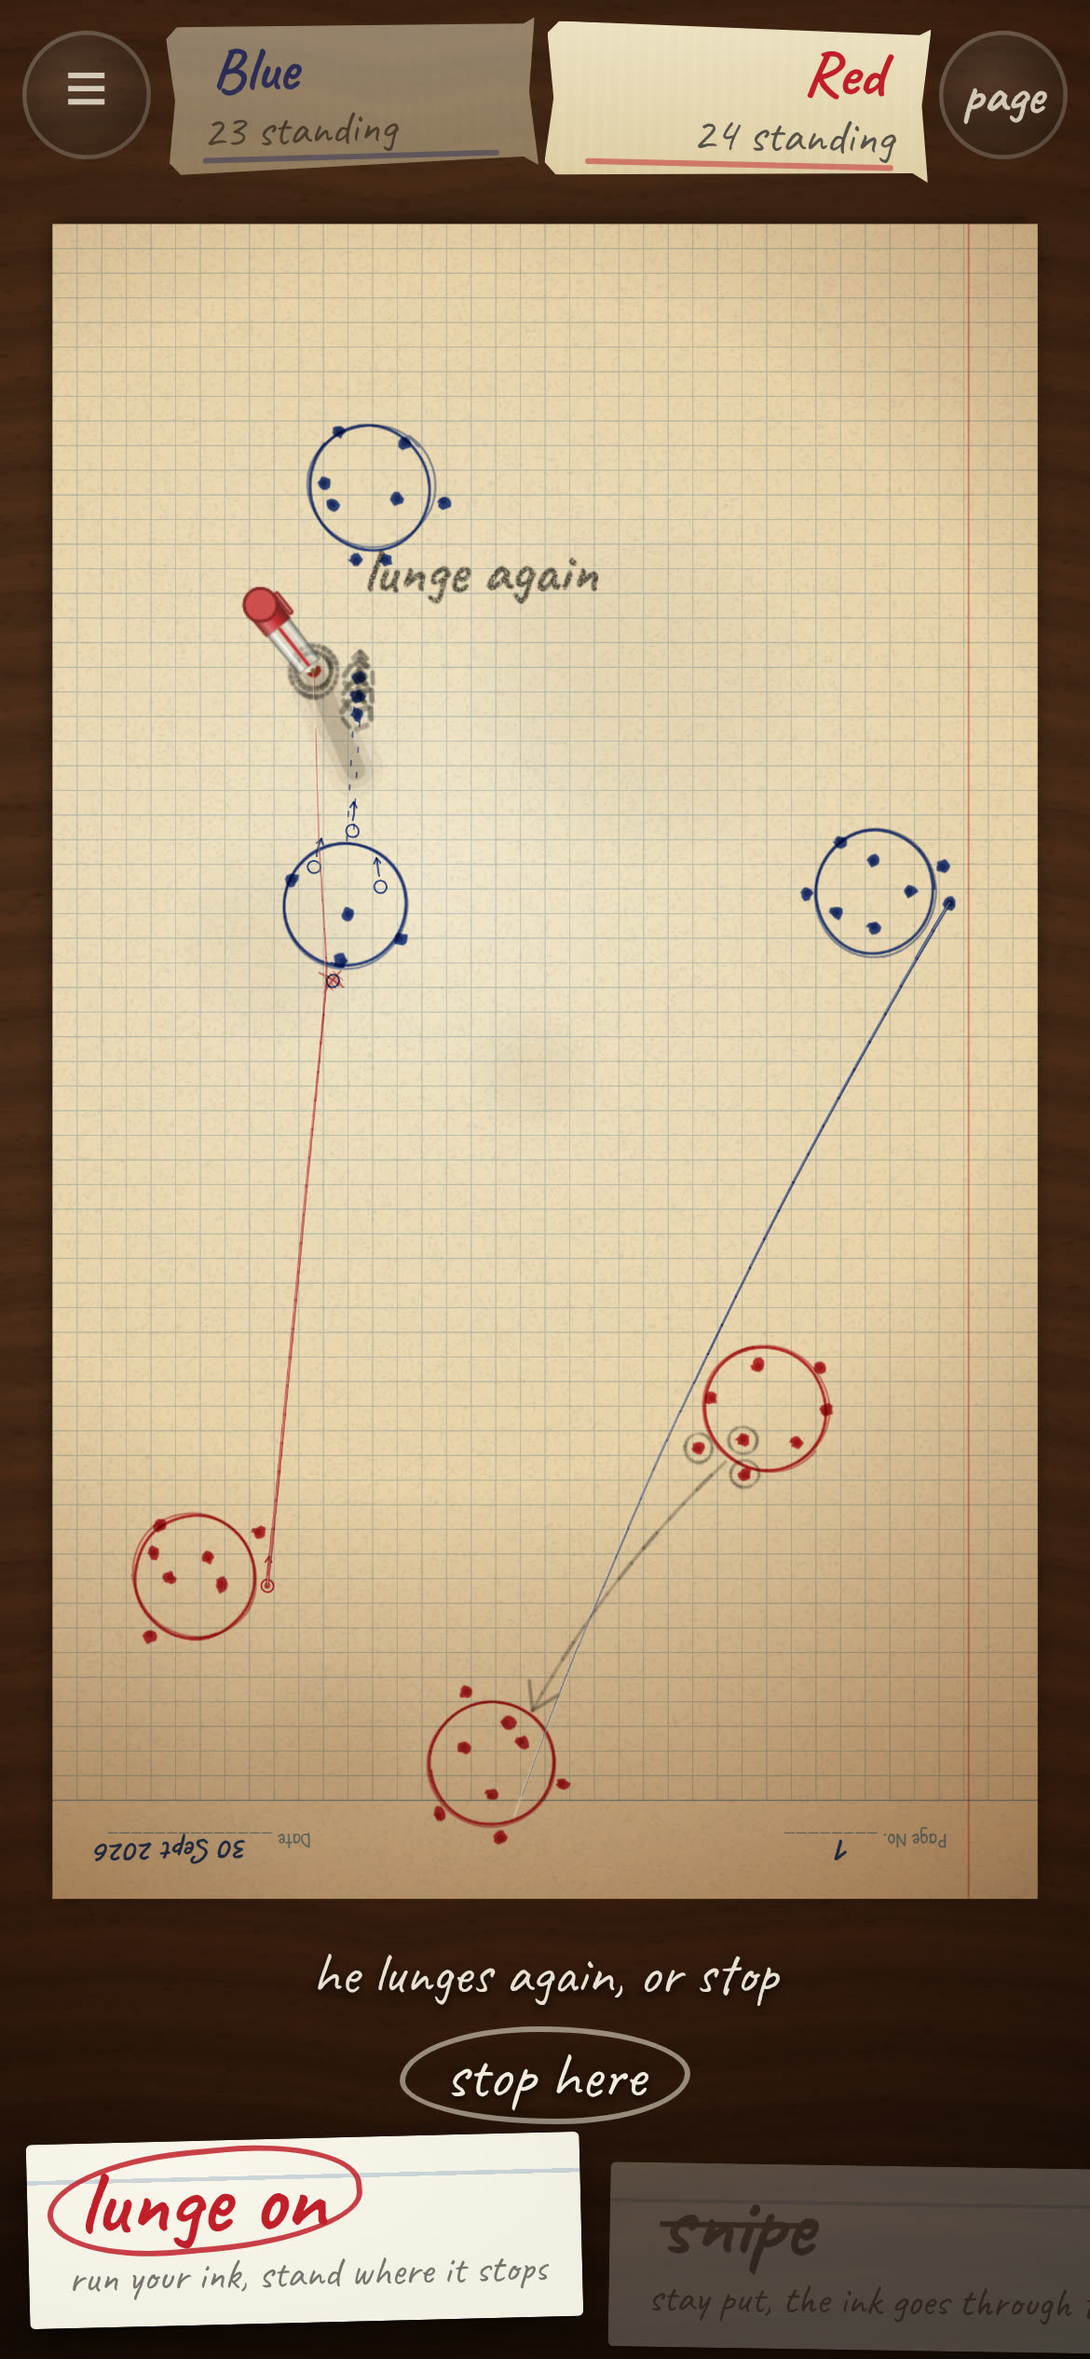
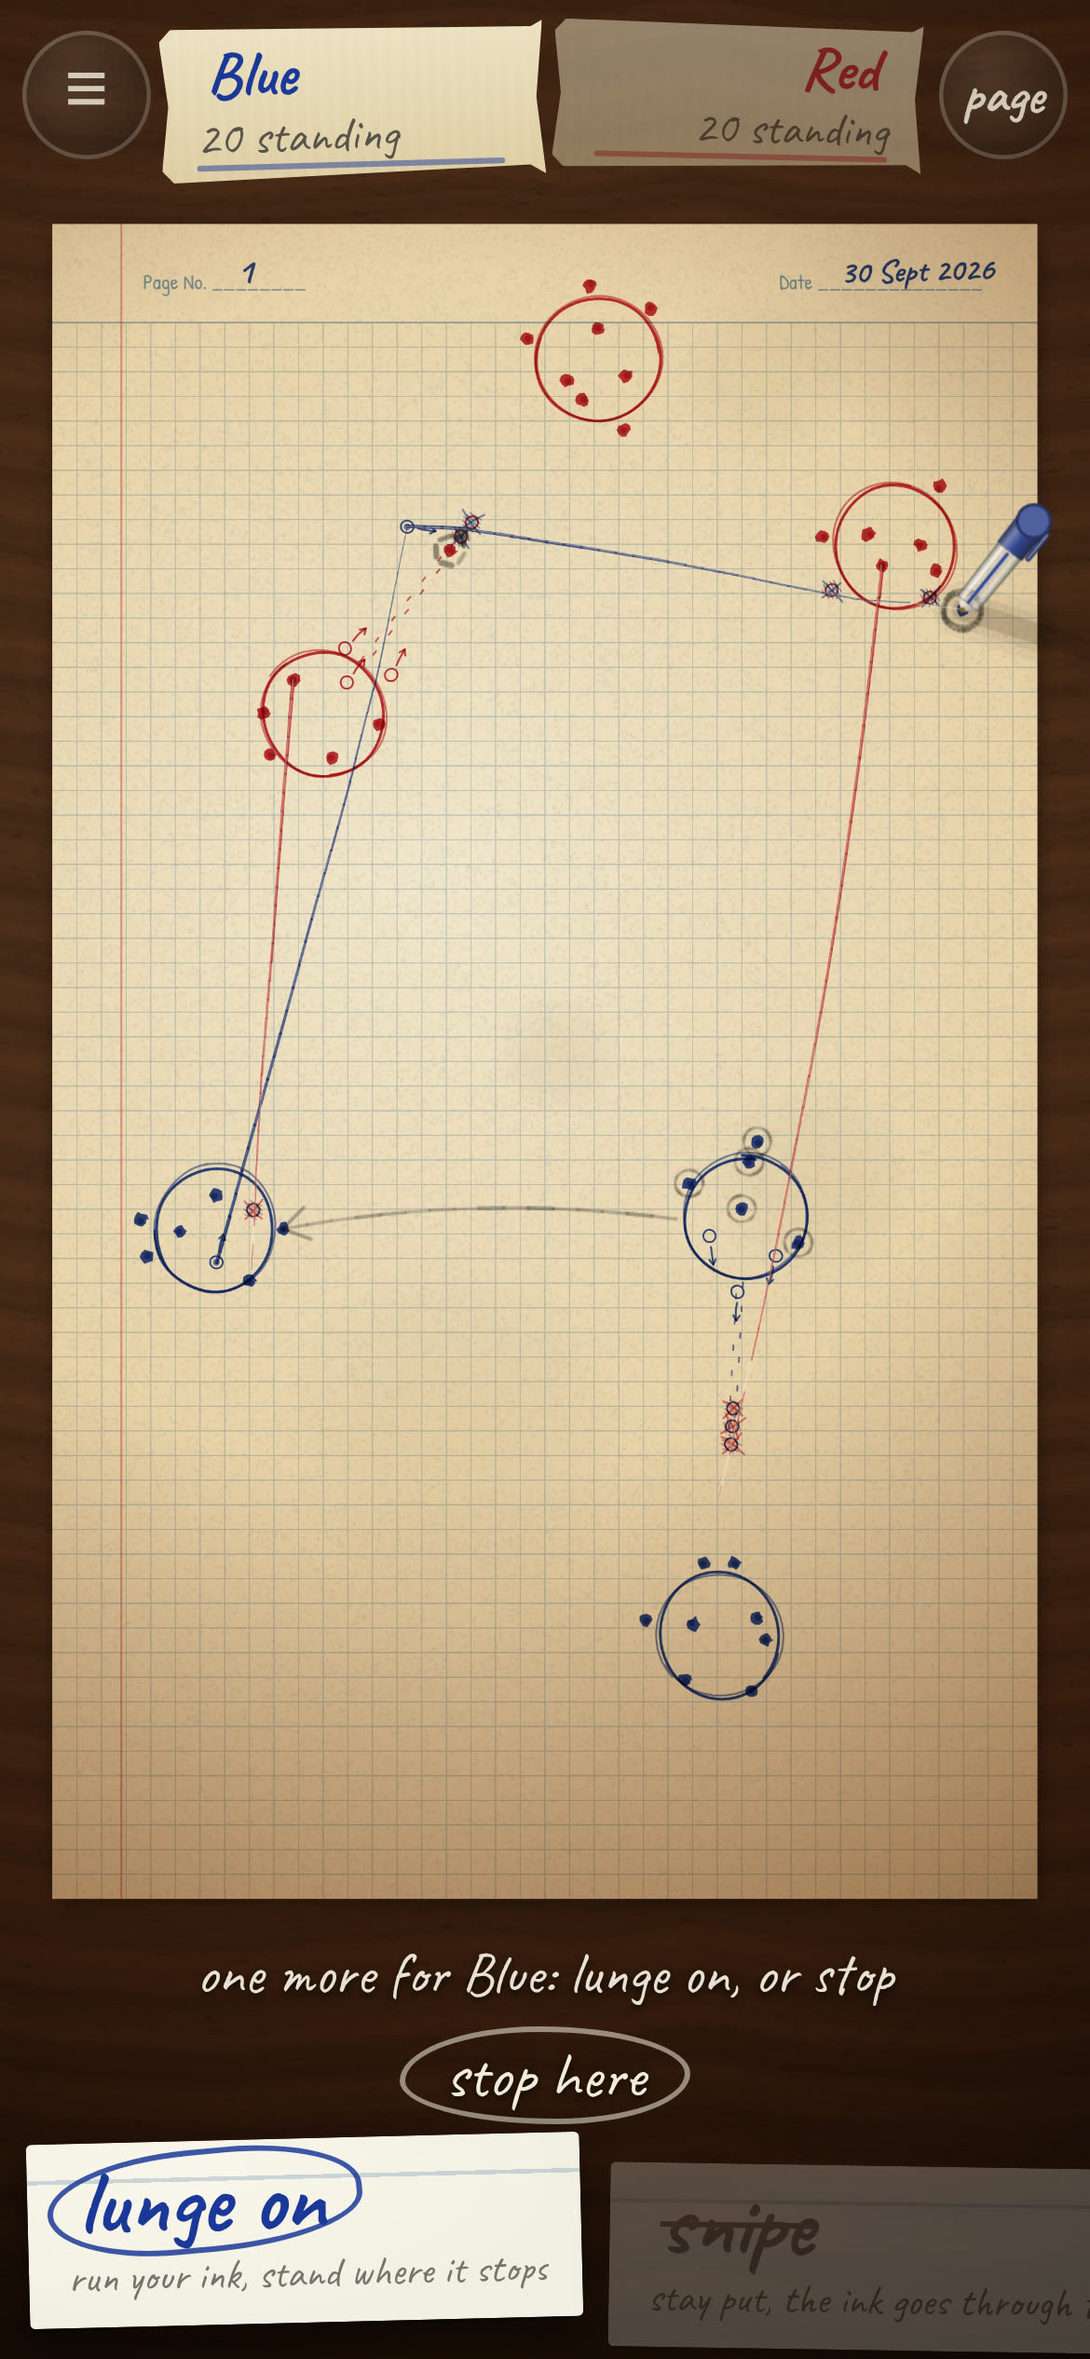
One more: a single note for both ways of earning another go
A snipe that took two and a lunge that killed now write the same pencil note, One more!, beside the soldier who earned it. Removed the 2 for 1! +1 flick note, the circled +1 and owedFlick, and the lunge again xN label; the chained lunger keeps one quiet ring. The status line speaks in the same voice (one more for Blue). Last stand unchanged.

diff --git a/src/main.ts b/src/main.ts
@@ -9,7 +9,7 @@ import { Camera, type Pose } from "./camera";
 import { cue, onCue } from "./cues";
 import { aimError, pull, release, wobble, type Aim as Pull } from "./flick";
 import {
-  act, canArrange, canSend, garrison, illegal, newGame, other, owedFlick, pathLen, sendMax,
+  act, canArrange, canSend, garrison, illegal, newGame, other, pathLen, sendMax,
   type Action, type Flick, type GameState, type Kind, type Outcome, type Player, type Pt,
 } from "./game";
 import { jotOrder, pickSoldier, inBase } from "./hand";
@@ -29,7 +29,7 @@ import { CUSTOM, RULES, SIZES, type Size } from "./rules";
 import { boldAt } from "./boil";
 import { comrades, LIFE, planFlick, planVolley, unit as seeded, VOLLEY, type VolleyPlan } from "./life";
 import * as voice from "./voice";
-import { Bubbles, bubbleAt, type BubbleKind } from "./bubble";
+import { Bubbles, bubbleAt, type BubbleKind, type Mood } from "./bubble";
 import { feel } from "./feel";
 import { UNIT_CAM, facing, phaseAt, rotFacing } from "./unitcam";
 import { boil, boilSeen, boilTick, forgetDrawn, life, NOTE, noteSpotNow, page, pageState, stageStats, renderOverlay, renderStage, worldTransform, type Els, type Frame } from "./scene";
@@ -307,7 +307,7 @@ function status(msg?: string) {
     else if (isBot(s.current)) t = `${who} is lining up…`;
     else if (sending) t = sending.to !== undefined ? "how many go?" : sending.from !== undefined ? "…to another of your camps" : "drag from one of your camps to another";
     else if (aim) t = pull(aim).live ? `let go to ${turn.verb(s, kind)}` : "pull back further…";
-    else if (c0?.chain) t = "he lunges again, or stop";
+    else if (c0?.chain) t = `one more for ${who}: lunge on, or stop`;
     else if (unit) t = "";
     else if (motion.gun) t = motion.gun.armed < 1 ? "point the phone, hold it still…" : "flick your wrist to fire";
     else if (selected !== undefined) t = motion.live("gun") ? "pull back, or tap him and raise the phone" : LIFE.unitCam && !taught("unitcam") && taught("aim") ? "pull back and let go, or tap him again" : `pull back from anywhere, let go`;
@@ -728,17 +728,17 @@ function speak(kind: BubbleKind, id: number, t0 = wall, seed?: number) {
  * first (a note's gap is chosen once, so one picked while the camera swings out
  * to bird's-eye would sit where the screen no longer is), for at most 1.5s.
  */
-const momentQ: { kind: BubbleKind; id: number; text: string; since: number }[] = [];
-function announce(kind: BubbleKind, id: number, text: string, delay = 120) {
+const momentQ: { kind: BubbleKind; id: number; text: string; mood: Mood; since: number }[] = [];
+function announce(kind: BubbleKind, id: number, text: string, delay = 120, mood: Mood = "shout") {
   if (!heard() || !s.soldiers[id]?.alive) return;
-  momentQ.push({ kind, id, text, since: wall + delay });
+  momentQ.push({ kind, id, text, mood, since: wall + delay });
   dirty = true;
 }
 function flushMoments() {
   while (momentQ.length && wall >= momentQ[0].since && (cam.settled || wall - momentQ[0].since > 1500)) {
     const m = momentQ.shift()!;
     if (!heard() || !s.soldiers[m.id]?.alive) continue;
-    if (bubbles.moment(m.kind, m.id, wall, Math.floor(seeded(s.seed, s.turn, m.id, m.kind.length, m.text.length) * 2 ** 31), m.text)) dirty = true;
+    if (bubbles.moment(m.kind, m.id, wall, Math.floor(seeded(s.seed, s.turn, m.id, m.kind.length, m.text.length) * 2 ** 31), m.text, m.mood)) dirty = true;
   }
 }
 
@@ -884,8 +884,9 @@ let earnedBy: { id: number; kind: Kind } | null = null;
 onCue((c) => {
   if (c !== "earned" || !earnedBy) return;
   const who = earnedBy, c0 = core();
-  if (who.kind === "snipe") announce("twoFor", who.id, "2 for 1! +1 flick");
-  else if (c0?.chain) announce("chain", c0.chain.soldier, c0.chain.link > 1 ? `lunge again ×${c0.chain.link}` : "lunge again!");
+  // the same note for both ways of earning another go: a snipe that took two, a lunge that killed
+  if (who.kind === "snipe") announce("more", who.id, "One more!", 120, "say");
+  else if (c0?.chain) announce("more", c0.chain.soldier, "One more!", 120, "say");
 });
 
 // What the status line says after a flick.
@@ -896,8 +897,8 @@ function noteFor(who: Player, f: Flick, o: Outcome) {
   if (o.crashed !== undefined) return k ? `${name(who)}'s lunger took ${k}, landed among them, and was shot` : `${name(who)}'s lunger landed among them and was shot`;
   if (o.lost) return `${name(who)} flicked a soldier off the page`;
   const stood = o.stood.length ? ` · ${o.stood.map((p) => name(p)).join(" and ")}: the last ${c0?.rules.lastStandAt ?? 4}, two flicks a turn` : "";
-  if (o.earned && f.kind === "snipe") return `two with one: ${name(who)} flicks again${stood}`;
-  if (o.earned) return `${name(who)}'s lunger took ${k}: lunge again or stop${stood}`;
+  if (o.earned && f.kind === "snipe") return `one more for ${name(who)}${stood}`;
+  if (o.earned) return `${name(who)}'s lunger took ${k}: one more, lunge on or stop${stood}`;
   if (k) return `${name(who)}'s ${v === "shoot" ? "shot" : v === "move" ? "run" : v} crossed out ${k}${stood}`;
   return (f.kind === "lunge" ? `${name(who)} ${v === "move" ? "moved" : "lunged"}` : `${name(who)} missed`) + stood;
 }
@@ -2309,8 +2310,6 @@ function currentFrame(): Frame {
     if (held.length) f.stand = c0.soldiers.filter((x) => x.alive && held.includes(x.owner)).map((x) => ({ x: x.x, y: x.y }));
     const owed = c0.chain && c0.soldiers[c0.chain.soldier];
     if (owed?.alive) f.chain = { at: owed, link: c0.chain!.link };
-    const owe = owedFlick(c0);
-    if (owe && c0.soldiers[owe.soldier].alive) f.tally = { at: c0.soldiers[owe.soldier], n: owe.n, owner: c0.soldiers[owe.soldier].owner };
   }
   if (lapse) {
     const p = Math.min(1, Math.max(0, (T - lapse.t0) / lapse.dur));

diff --git a/src/scene.ts b/src/scene.ts
@@ -76,8 +76,6 @@ export interface Frame {
   stand?: Pt[];
   /** A lunger owed another lunge: ringed twice, with what he's owed and how many links. */
   chain?: { at: Pt; link: number };
-  /** An earned flick owed (owedFlick): a circled +n beside the soldier who earned it. */
-  tally?: { at: Pt; n: number; owner: 0 | 1 };
   /** Aiming a lunge: enemy bases with men at home, where he'd be shot if he landed. */
   danger?: { x: number; y: number; r: number }[];
   /** Pencilled help on the page; "note" writes `text` (a room waiting on the other side). */
@@ -388,8 +386,7 @@ function drawGuides(g: Ctx, f: Frame, box: Box) {
   }
   for (const q of f.road ?? []) { drawRoad(g, q.at, q.dir, px, s.soldiers.length + Math.round(q.at.x)); box.add(q.at.x, q.at.y, 34); }
   for (const q of f.stand ?? []) { drawRays(g, q, px, 5 + Math.round(q.x + q.y)); box.add(q.x, q.y, 36); }
-  if (f.chain) { drawChain(g, f, f.chain, px, box); }
-  if (f.tally) { drawTally(g, f, f.tally, px, box); }
+  if (f.chain) { drawChain(g, f.chain, px, box); }
   if (f.hint) for (const b of f.hint.bases) { pencilLoop(g, b.x, b.y, b.r + 12, 900 + b.id * 17, Math.max(1.6, px * 1.1), f.hint.p, 0.75); box.add(b.x, b.y, b.r + 24); }
   if (f.selected !== undefined && !f.aim && !f.mover) {
     const x = s.soldiers[f.selected];
@@ -441,39 +438,10 @@ function drawRays(g: Ctx, at: Pt, px: number, seed: number) {
   }
 }
 
-/** A page-space spot `dx, dy` from `at` in screen-upright terms (right, down), whichever way the page is turned. */
-function upright(f: Frame, at: Pt, dx: number, dy: number): Pt {
-  const c = Math.cos(f.view.rot), sn = Math.sin(f.view.rot);
-  return { x: at.x + dx * c + dy * sn, y: at.y - dx * sn + dy * c };
-}
-
-/** Owed another lunge: two loops round him and, in pencil beside him, "lunge again" with his link count. */
-function drawChain(g: Ctx, f: Frame, c: { at: Pt; link: number }, px: number, box: Box) {
-  const w = Math.max(2, px * 1.6);
-  pencilLoop(g, c.at.x, c.at.y, RULES.soldierRadius + 12, 31 + c.link, w, 1, 1);
-  pencilLoop(g, c.at.x, c.at.y, RULES.soldierRadius + 18, 37 + c.link, w, 1, 0.9);
-  const size = Math.max(30, Math.min(64, 22 / f.view.z));
-  const p = upright(f, c.at, size * 0.8, -size * 1.3);
-  handText(g, c.link > 1 ? `lunge again ×${c.link}` : "lunge again", p.x, p.y, size, lead(theme).note, { weight: 700, rot: -f.view.rot, alpha: 0.95, grain: 0.5 });
-  box.add(c.at.x, c.at.y, size * 6);
-}
-
-/** An earned flick owed: a circled "+1" beside the man who earned it, in his pen, big enough to read from bird's-eye. */
-function drawTally(g: Ctx, f: Frame, t: { at: Pt; n: number; owner: 0 | 1 }, px: number, box: Box) {
-  const size = Math.max(46, Math.min(96, 32 / f.view.z));
-  const p = upright(f, t.at, size * 1.2, -size * 0.9);
-  const pen = INK.pens[t.owner], w = Math.max(3, px * 2.4);
-  handText(g, `+${t.n}`, p.x, p.y + size * 0.3, size, pen, { weight: 700, rot: -f.view.rot, align: "center", alpha: 1, grain: 0.5 });
-  // circled twice, the way a hand circles what it means
-  const rng_ = rng(97 + t.n);
-  for (let k = 0; k < 2; k++) {
-    const r = size * (0.74 + k * 0.05), a0 = rng_() * 6.28;
-    const pts: Pt[] = [];
-    for (let i = 0; i <= 28; i++) { const a = a0 + (i / 28) * Math.PI * 2.1; pts.push({ x: p.x + Math.cos(a) * r * (1 + (rng_() - 0.5) * 0.06), y: p.y + Math.sin(a) * r * (1 + (rng_() - 0.5) * 0.06) }); }
-    pencilStroke(g, pts, pen, 97 + k, w, 1, 0.95, 0.5);
-  }
-  box.add(p.x, p.y, size * 1.5);
-  box.add(t.at.x, t.at.y, 20);
+/** Owed another lunge: one quiet pencil ring round him, to say he's the one who must go. */
+function drawChain(g: Ctx, c: { at: Pt; link: number }, px: number, box: Box) {
+  pencilLoop(g, c.at.x, c.at.y, RULES.soldierRadius + 13, 31 + c.link, Math.max(2, px * 1.6), 1, 1);
+  box.add(c.at.x, c.at.y, 40);
 }
 
 /** A lunger at speed: three short pencil streaks trailing from him, the way a kid draws a fast thing. */

diff --git a/src/bubble.ts b/src/bubble.ts
@@ -25,7 +25,7 @@ export type BubbleKind =
   | "ready" | "aim" | "phew" | "dread" | "kill" | "mourn" | "send" | "arrive"
   | "last" | "win" | "lunge" | "snipe" | "deny" | "idle" | "idleUp" | "idleDown"
   // moments the field must announce (Bubbles.moment): always written, whatever the chance
-  | "stand" | "twoFor" | "chain";
+  | "stand" | "more";
 type Line = string | { t: string; mood: Mood };
 
 export const BUBBLE = {
@@ -49,7 +49,7 @@ export const BUBBLE = {
 export const MOOD: Record<BubbleKind, Mood> = {
   ready: "say", aim: "whisper", phew: "say", dread: "whisper", kill: "say", mourn: "whisper", send: "say", arrive: "say",
   last: "shout", win: "shout", lunge: "shout", snipe: "shout", deny: "say", idle: "say", idleUp: "say", idleDown: "whisper",
-  stand: "shout", twoFor: "shout", chain: "shout",
+  stand: "shout", more: "say",
 };
 
 const shout = (t: string): Line => ({ t, mood: "shout" });
@@ -90,7 +90,7 @@ export const LINES: Record<BubbleKind, readonly Line[]> = {
   idleUp: ["easy", "too easy", "they've got no chance", "Dawood would be proud", "can we go home yet", "we're so good", "look at them", "who's winning? us", "…", "is it lunch?"],
   // stray thoughts, well behind
   // moments (Bubbles.moment writes its own words)
-  stand: ["LAST STAND!"], twoFor: ["2 for 1!"], chain: ["lunge again!"],
+  stand: ["LAST STAND!"], more: ["One more!"],
   idleDown: ["we're losing aren't we", "can we go home", "Dawood wouldn't like this", "I miss camp", "don't tell mum", "is there a plan?", "…", "hm", "we can still do this", "ask Dawood for help"],
 };
 
@@ -98,7 +98,7 @@ export const LINES: Record<BubbleKind, readonly Line[]> = {
 const CHANCE: Record<BubbleKind, number> = {
   ready: 0.3, aim: 0.12, phew: 0.55, dread: 0.3, kill: 0.45, mourn: 0.4, send: 0.5, arrive: 0.5,
   last: 0.9, win: 1, lunge: 0.7, snipe: 0.5, deny: 0.6, idle: 1, idleUp: 1, idleDown: 1,
-  stand: 1, twoFor: 1, chain: 1,
+  stand: 1, more: 1,
 };
 
 export interface Bubble {
@@ -111,7 +111,7 @@ export interface Bubble {
   /** Which side of him it sits (screen): 1 right, -1 left. */
   side: 1 | -1;
   seed: number;
-  /** A moment the field must announce (last stand, two for one, a lunge chain): never chance-gated, waits its turn rather than talk over another, and chatter gives way to it. */
+  /** A moment the field must announce (last stand, one more): never chance-gated, waits its turn rather than talk over another, and chatter gives way to it. */
   important?: boolean;
 }
 
@@ -171,9 +171,9 @@ export class Bubbles {
    * is let finish first, and this one is written straight after it. Pure of
    * game state, and seeded by the caller.
    */
-  moment(kind: BubbleKind, id: number, t0: number, seed: number, text: string): Bubble | null {
+  moment(kind: BubbleKind, id: number, t0: number, seed: number, text: string, mood: Mood = "shout"): Bubble | null {
     if (!LIFE.bubbles) return null;
-    const b: Bubble = { kind, id, text, mood: "shout", t0, side: unit(seed, 11) < 0.5 ? -1 : 1, seed, important: true };
+    const b: Bubble = { kind, id, text, mood, t0, side: unit(seed, 11) < 0.5 ? -1 : 1, seed, important: true };
     const tail = this.pending.length ? this.pending[this.pending.length - 1] : this.cur?.important ? this.cur : null;
     if (tail && t0 < tail.t0 + showOf(tail) + 150) {
       b.t0 = tail.t0 + showOf(tail) + 150;

diff --git a/src/game.test.ts b/src/game.test.ts
@@ -3,7 +3,7 @@
 import { describe, expect, it } from "vitest";
 import { botAction, botArrange, botBase } from "./bot";
 import {
-  act, alive, owedFlick, canArrange, canFlick, canPlaceBase, canSend, columnSpots, garrison, hand, illegal, isRing, newGame, pathLen, preview, replay,
+  act, alive, canArrange, canFlick, canPlaceBase, canSend, columnSpots, garrison, hand, illegal, isRing, newGame, pathLen, preview, replay,
   type Action, type Flick, type GameState, type Player,
 } from "./game";
 import { CORE, RULES, SIZES, type CoreRules, type Size } from "./rules";
@@ -153,29 +153,14 @@ describe("snipe", () => {
     expect(o).toMatchObject({ earned: true, again: true });
     expect(s).toMatchObject({ current: 0, left: 1 });
     put(s, reds[2].id, 450, 1000); put(s, reds[3].id, 500, 1000);
-    expect(owedFlick(s)).toEqual({ soldier: me.id, n: 1 });
     o = act(s, flick(me.id, "snipe", 0, 400));
     expect(o).toMatchObject({ earned: true, again: true });
-    expect(owedFlick(s)).toEqual({ soldier: me.id, n: 1 });
     // one isn't enough
     put(s, reds[4].id, 150, 700);
     o = act(s, flick(me.id, "snipe", UP, 400));
     expect(o.killed).toEqual([reds[4].id]);
     expect(o).toMatchObject({ earned: false, again: false, handover: true });
     expect(s.current).toBe(1);
-    expect(owedFlick(s)).toBeUndefined();
-  });
-
-  it("owedFlick: nothing owed on a fresh turn, one owed after a two-kill snipe", () => {
-    const s = game(PAGE, 4);
-    expect(owedFlick(s)).toBeUndefined();
-    const me = of(s, 0)[0];
-    const reds = alive(s, 1);
-    park(s, s.soldiers.filter((x) => x.owner === 1 || (x.id !== me.id && x.owner === 0)).map((x) => x.id));
-    put(s, me.id, 150, 1000);
-    put(s, reds[0].id, 150, 900); put(s, reds[1].id, 150, 850);
-    act(s, flick(me.id, "snipe", UP, 300));
-    expect(owedFlick(s)).toEqual({ soldier: me.id, n: 1 });
   });
 });
 

diff --git a/src/bubble.test.ts b/src/bubble.test.ts
@@ -40,7 +40,7 @@ describe("pencil notes", () => {
 
   it("every moment has lines, in its mood unless a line says otherwise", () => {
     for (const k of Object.keys(LINES) as (keyof typeof LINES)[]) {
-      if (!["stand", "twoFor", "chain"].includes(k)) expect(LINES[k].length).toBeGreaterThan(3); // (the moments write their own words)
+      if (!["stand", "more"].includes(k)) expect(LINES[k].length).toBeGreaterThan(3); // (the moments write their own words)
       for (let seed = 0; seed < 40; seed++) {
         const l = lineFor(k, seed);
         expect(l.text.length).toBeGreaterThan(0);
@@ -95,17 +95,17 @@ describe("moments the field must announce", () => {
 
   it("wait their turn rather than talk over each other, in order", () => {
     const b = new Bubbles();
-    const a = b.moment("twoFor", 1, 1000, 1, "2 for 1!")!;
+    const a = b.moment("more", 1, 1000, 1, "One more!")!;
     const c = b.moment("stand", 2, 1100, 2, "LAST STAND!")!;
     expect(c.t0).toBeGreaterThanOrEqual(1000 + showOf(a));
-    expect(b.showing(1200)?.text).toBe("2 for 1!");
+    expect(b.showing(1200)?.text).toBe("One more!");
     expect(b.showing(c.t0 + showOf(a) + 1 > 0 ? 1000 + showOf(a) + 1 : 0)).toBeNull(); // the gap between them
     expect(b.showing(c.t0 + 10)?.text).toBe("LAST STAND!");
   });
 
   it("keep chatter quiet while one is waiting", () => {
     const b = new Bubbles();
-    b.moment("twoFor", 1, 1000, 1, "2 for 1!");
+    b.moment("more", 1, 1000, 1, "One more!");
     b.moment("stand", 2, 1100, 2, "LAST STAND!");
     expect(b.offer("idle", 3, 1000 + 20000, 5)).toBeNull();
   });

diff --git a/src/game.ts b/src/game.ts
@@ -304,25 +304,6 @@ export function hand(s: GameState, id: number, kind: Kind) {
 }
 
 /** Flicks a side gets at the start of its turn. */
-/**
- * An extra flick owed this turn from a snipe that took two (a lunge's is the
- * chain's): who earned it, and how many are owed. Derived from state alone
- * (flicks left against the turn's allotment less the strokes already drawn),
- * so a reload, a room or a replay shows what the live game did.
- */
-export function owedFlick(s: GameState): { soldier: number; n: number } | undefined {
-  if (s.phase !== "play" || s.chain) return undefined;
-  const p = s.current;
-  const start = s.stand[p] > 0 && s.stand[p] < s.turn ? s.rules.lastStandFlicks : 1; // a stand begun this turn doesn't bump this turn
-  let used = 0;
-  for (const m of s.marks) if (m.t === "stroke" && m.turn === s.turn && m.owner === p) used++;
-  // more flicks left than an unearned turn would leave; what's owed is the extra, never more than what's left
-  const n = Math.min(s.left, s.left - (start - used));
-  const last = s.actions[s.actions.length - 1];
-  if (n <= 0 || !used || last?.t !== "flick" || last.kind !== "snipe" || s.soldiers[last.soldier]?.owner !== p) return undefined;
-  return { soldier: last.soldier, n };
-}
-
 export const allotment = (s: GameState, p: Player) => (inLastStand(s, p) ? s.rules.lastStandFlicks : 1);
 
 /** How long a flick of this power is (0..1). Both kinds reach as far. */
